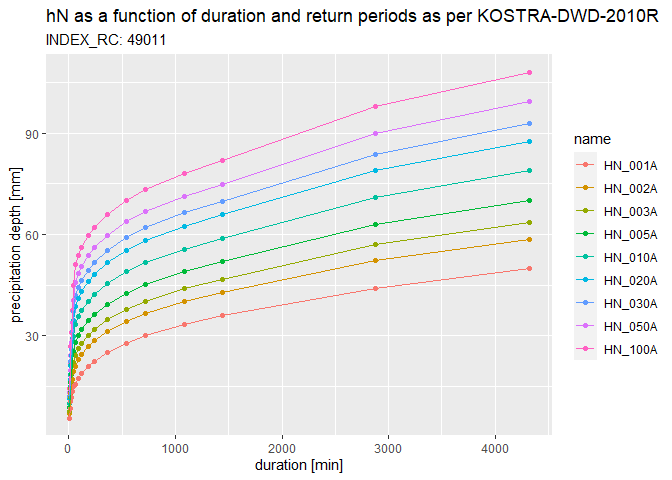
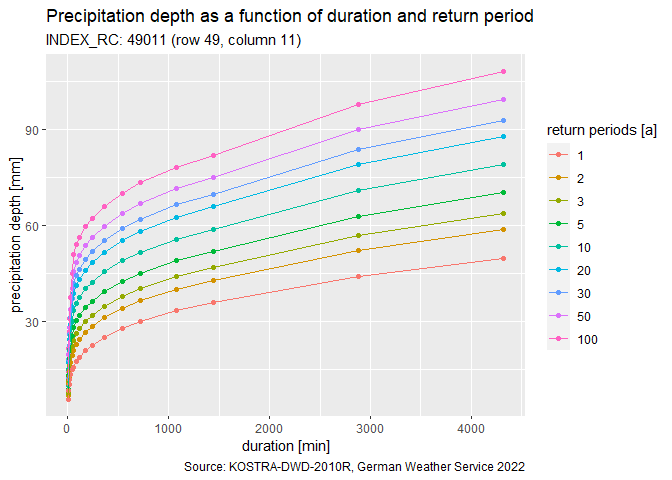
README

diff --git a/README.md b/README.md
@@ -48,7 +48,7 @@ and load the package via
 
 ``` r
 library(kostra2010R)
-#> 0.9.0
+#> 0.11.0
 ```
 
 ## Getting started
@@ -61,8 +61,8 @@ information (e.g. column 11, row 49). This information can easily be
 used to generate the necessary “INDEX_RC” field.
 
 ``` r
-# Generate "INDEX_RC" based on X and Y information.
-idx_build(col = 11, row = 49)
+# Generate "INDEX_RC" based on row and column information.
+idx_build(row = 49, col = 11)
 #> [1] "49011"
 ```
 
@@ -86,7 +86,7 @@ in terms of return periods.
 
 ``` r
 # Sf objects created based on specified coordinates. Don't forget to pass the CRS.
-p1 <- get_centroid(c(6.09, 50.46), epsg = 4326)
+p1 <- get_centroid(c(6.09, 50.46), crs = "epsg:4326")
 p1
 #> Geometry set for 1 feature 
 #> Geometry type: POINT
@@ -95,7 +95,7 @@ p1
 #> Geodetic CRS:  WGS 84
 #> POINT (6.09 50.46)
 
-p2 <- get_centroid(c(367773, 5703579), epsg = 25832)
+p2 <- get_centroid(c(367773, 5703579), crs = "epsg:25832")
 p2
 #> Geometry set for 1 feature 
 #> Geometry type: POINT
@@ -363,31 +363,16 @@ xts
 
 ### Further utilization
 
-Data can now be visualized via `ggplot2` after a quick wide-to-long
-conversion…
+Data can now be visualized as intensity-duration-frequency curves using
+`plot_idf()`, underpinned by `{ggplot2}`…
 
 ``` r
-library(ggplot2)
-
-# Column name extraction for name/value junction
-cnames <- colnames(kostra)[colnames(kostra) |> stringr::str_detect("HN_*")]
-
-# Making use of tidyr
-longdata <- tidyr::pivot_longer(kostra, cols = all_of(cnames))
-
-# Plot the whole dataset, colors according to return periods
-ggplot(longdata, aes(D_min, value, colour = name)) + 
-  geom_point() +
-  geom_line() +
-  xlab("duration [min]") +
-  ylab("precipitation depth [mm]") +
-  ggtitle(paste0("hN as a function of duration and return periods as per ", attr(kostra, "source")),
-          subtitle = paste0("INDEX_RC: ", attr(kostra, "id")))
+plot_idf(kostra)
 ```
 
 <img src="man/figures/README-unnamed-chunk-21-1.png" width="100%" />
 
-… or exported to disk using `write_stats()`.
+… or exported to disk using `write_stats()` based on `write.table()`.
 
 ## Contributing
 
